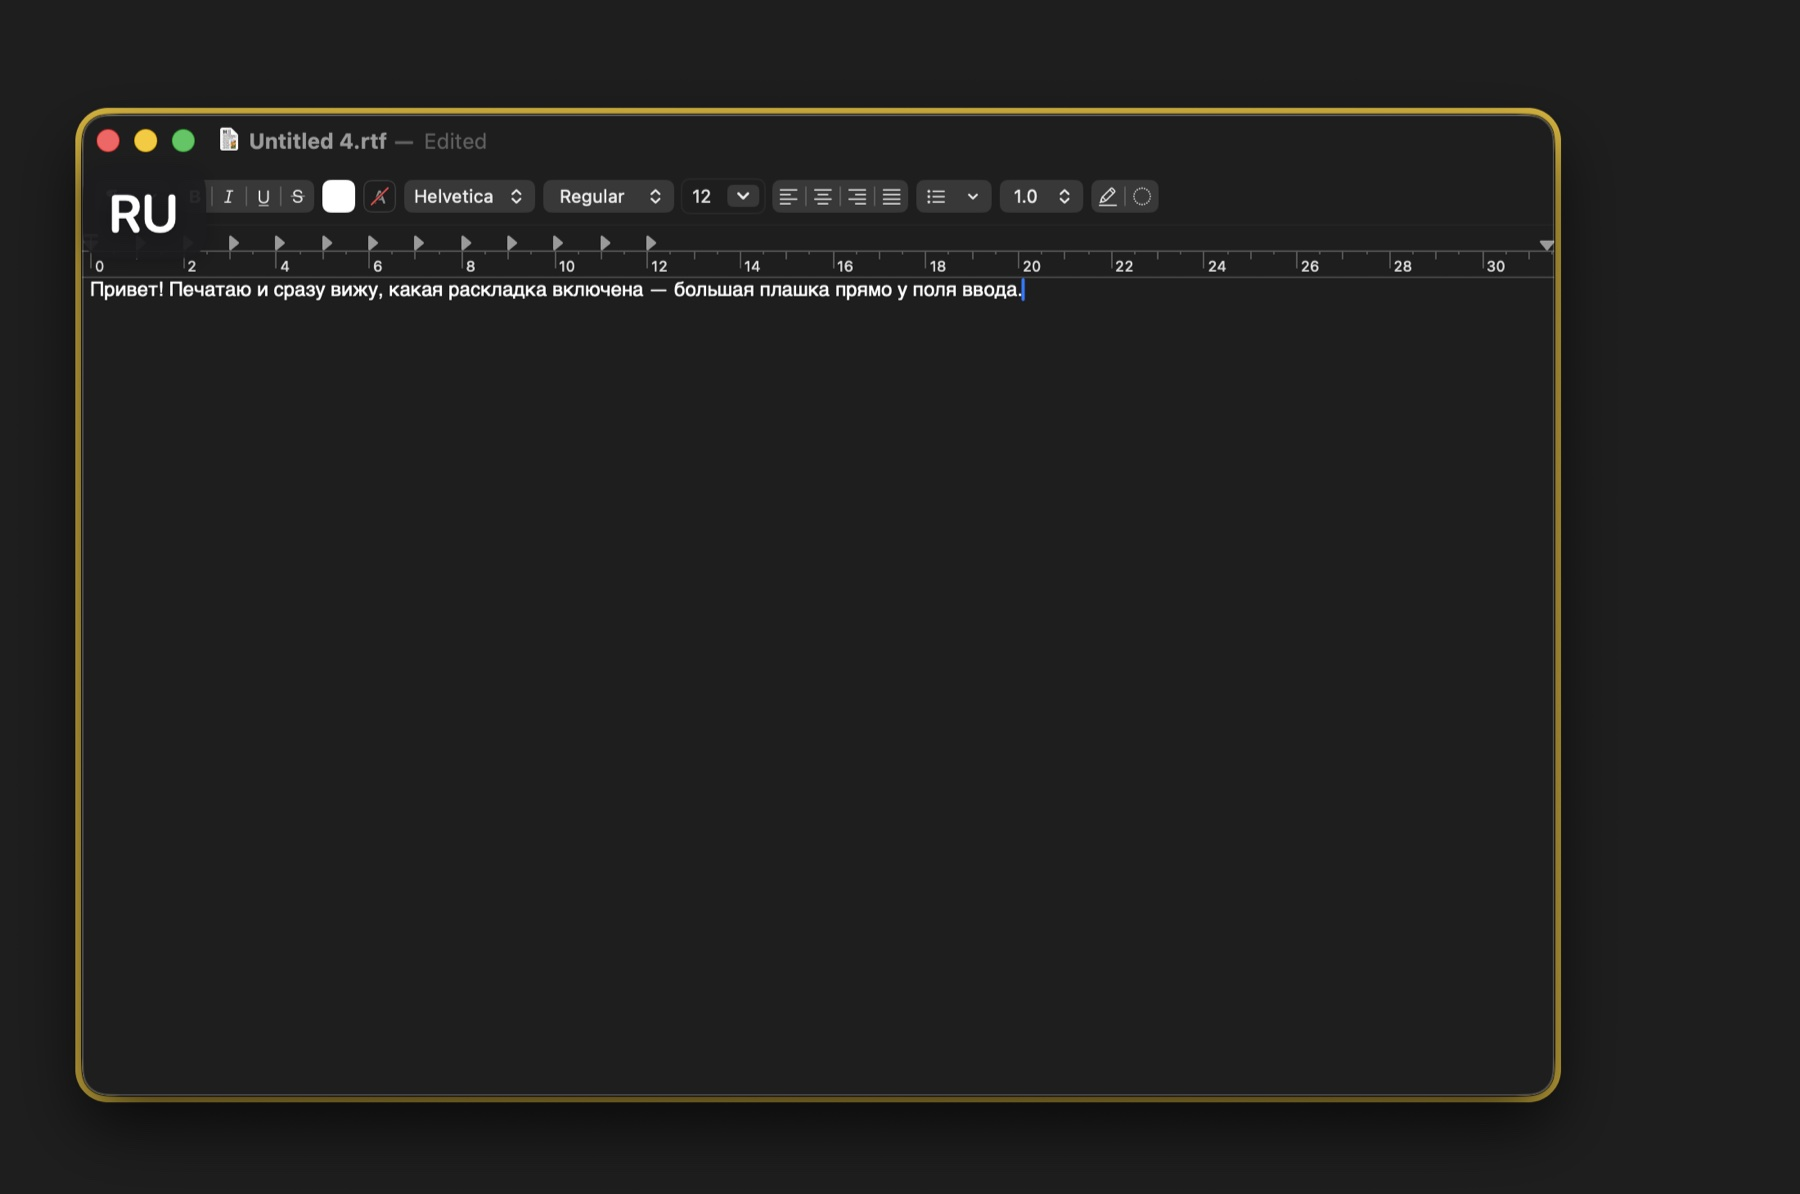
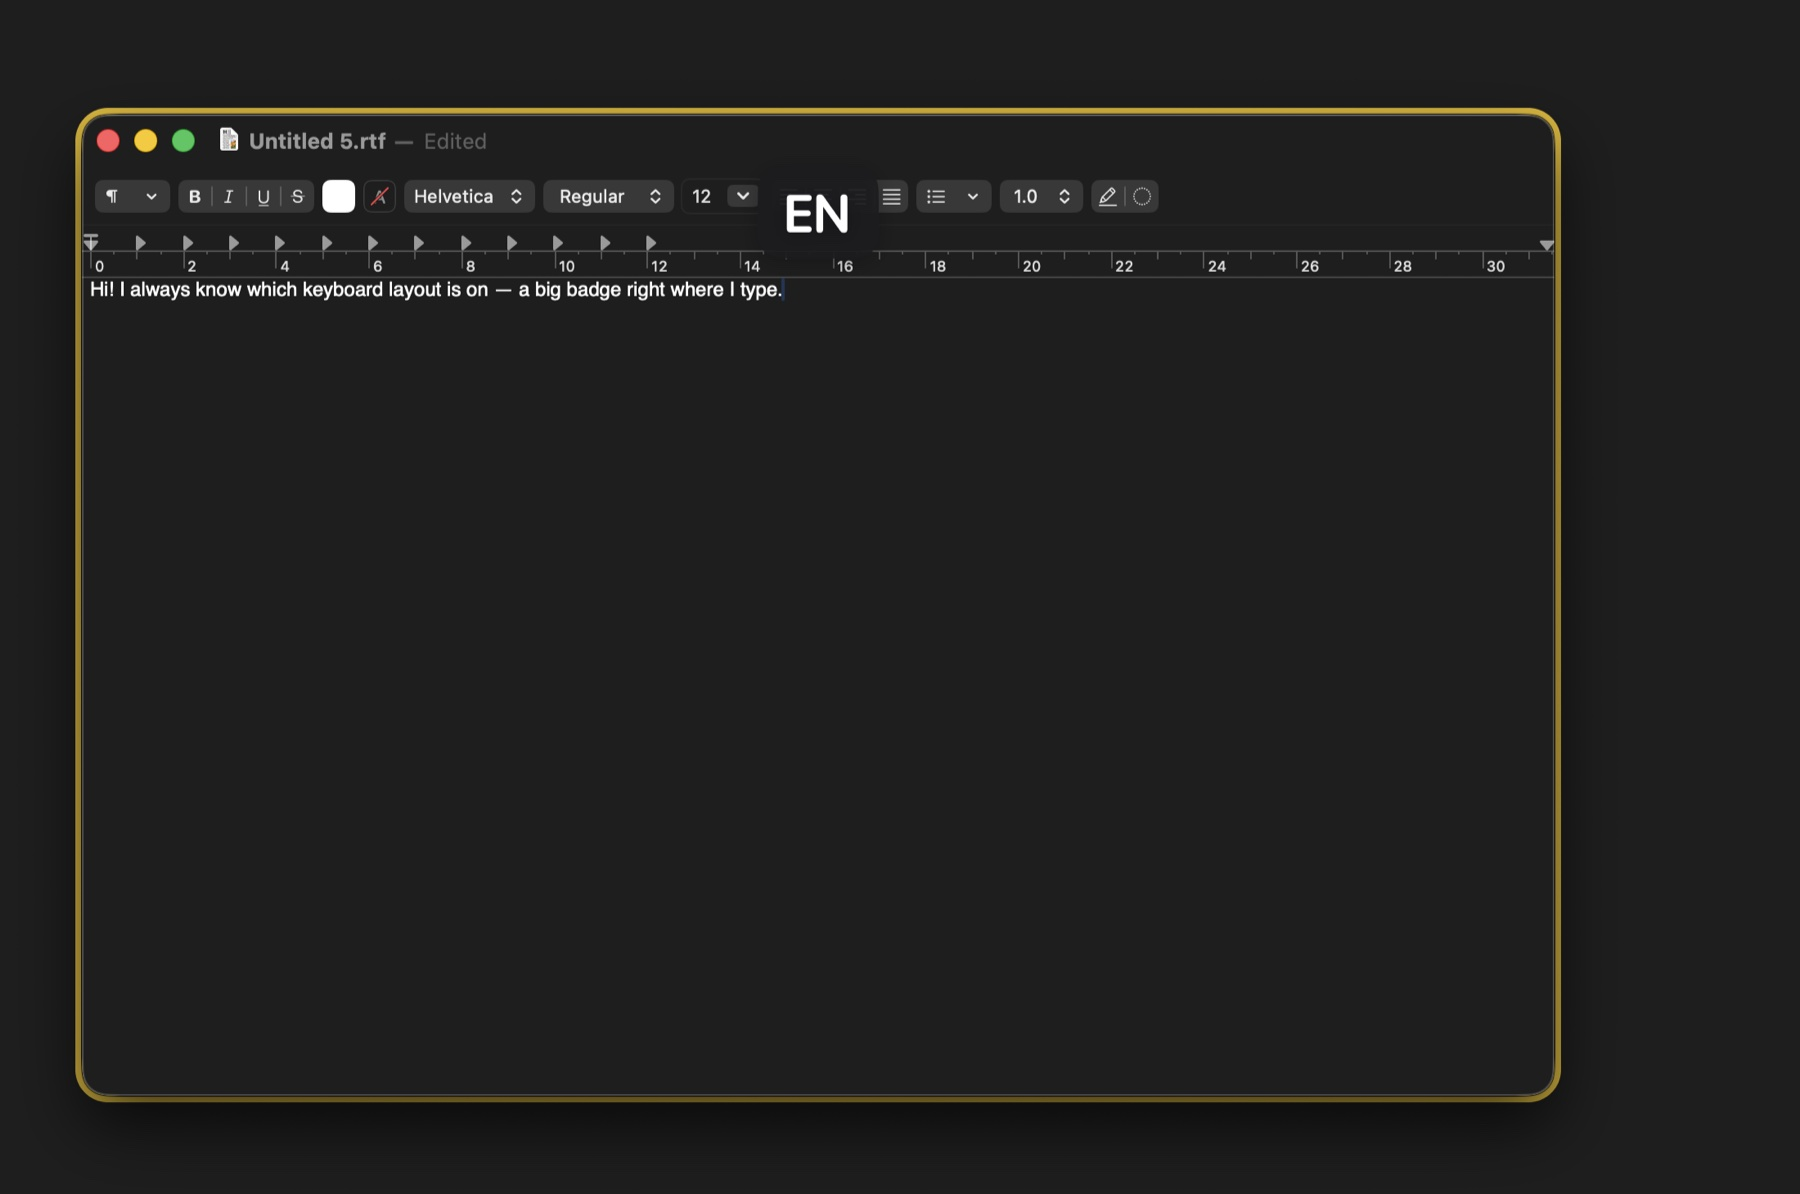
shots: English badge screenshot, centered alignment

Changed region(s): [[0.0311, 0.124, 0.56, 0.2479], [0.1867, 0.093, 0.2178, 0.124]]

diff --git a/index.html b/index.html
@@ -62,7 +62,7 @@
 
     <div class="container">
         <div class="shots">
-            <img src="shots/01-badge.jpg" alt="LayoutHUD badge showing the current keyboard layout (RU) right next to the text being typed in TextEdit">
+            <img src="shots/01-badge.jpg" alt="LayoutHUD badge showing the current keyboard layout (EN) right next to the text being typed in TextEdit">
         </div>
 
         <div class="card">
